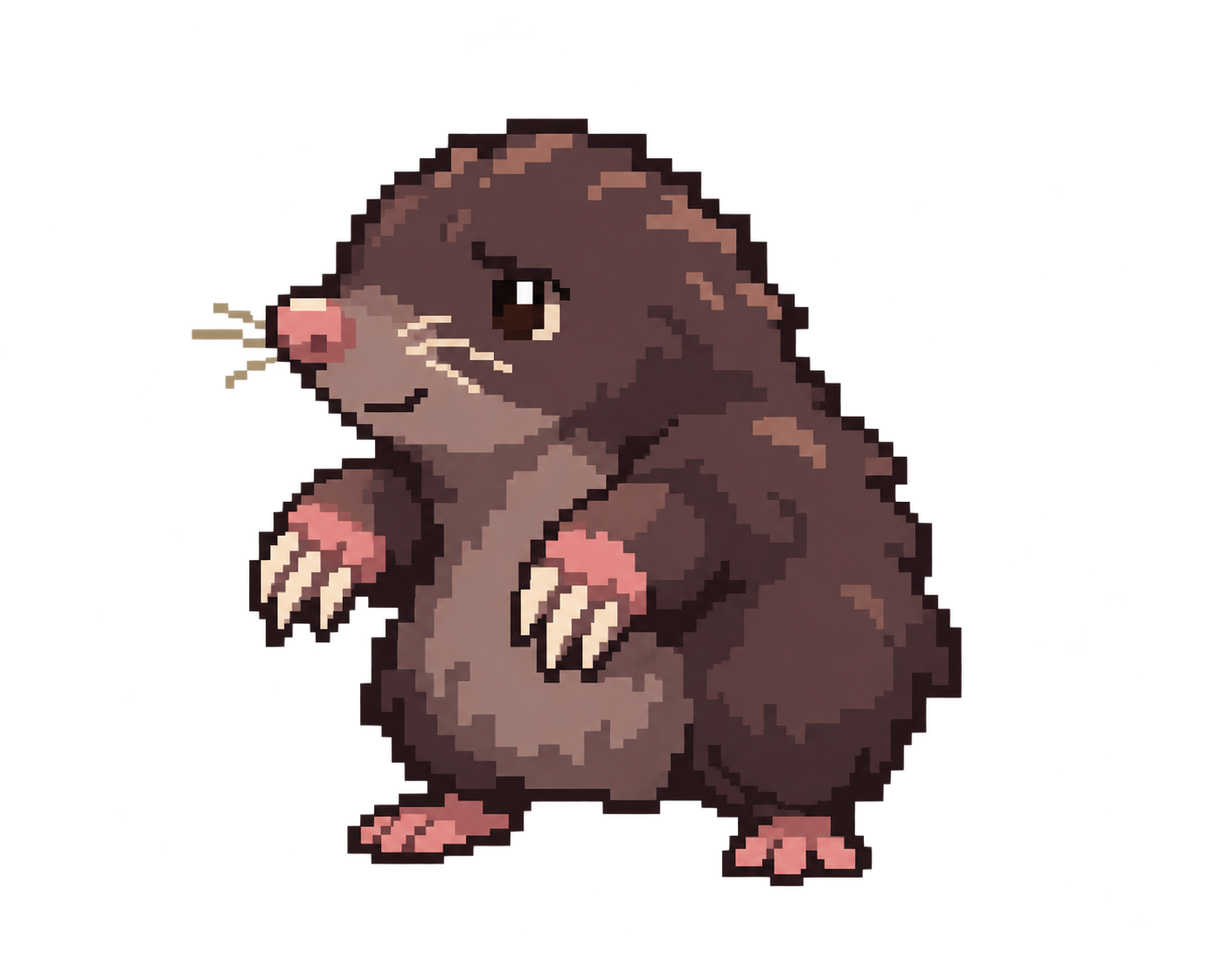
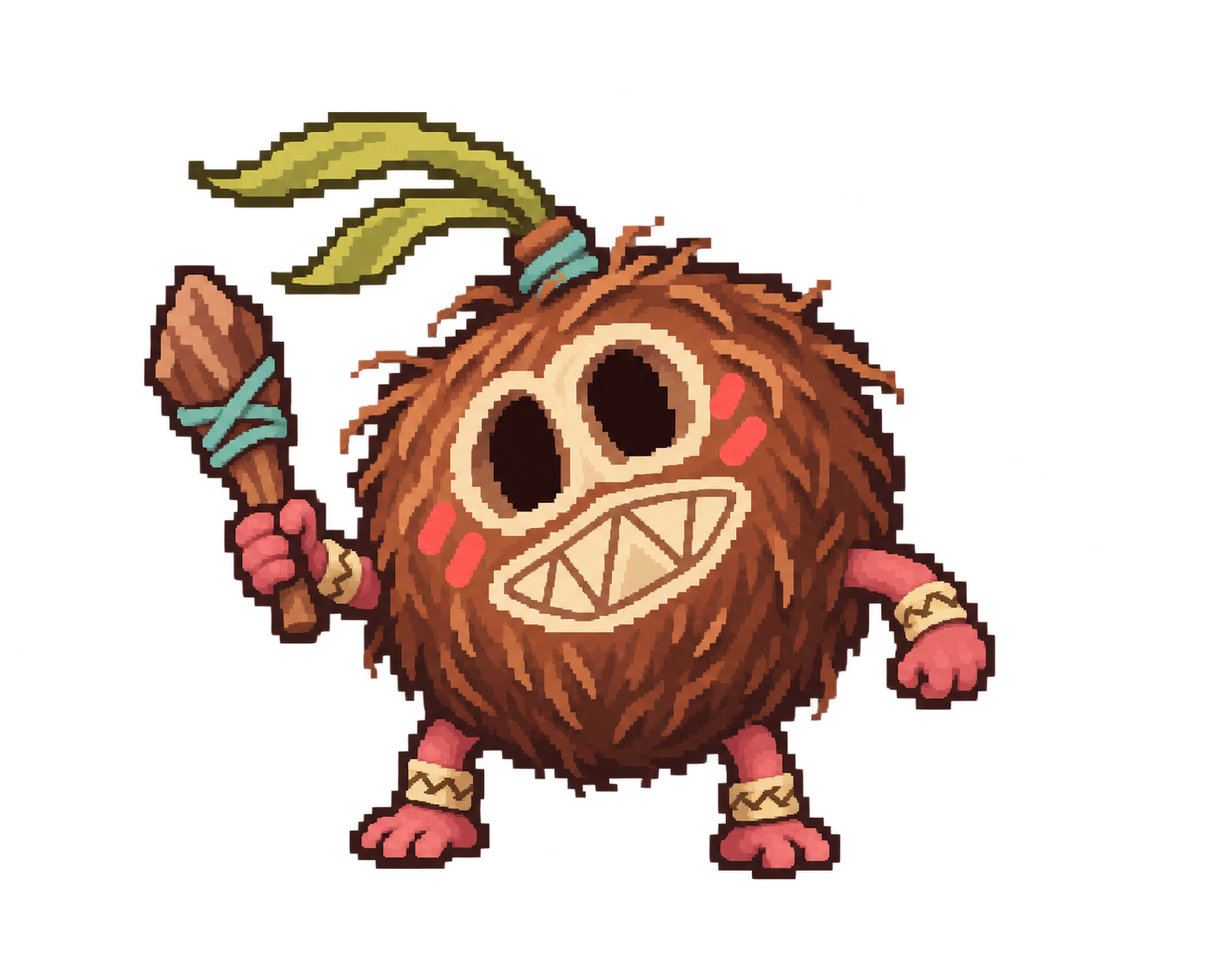
feat: 해적 전투 캐릭터와 밤 배경 적용

diff --git a/script/road.js b/script/road.js
@@ -330,10 +330,10 @@ function drawMap(dt=0){
         sheet.dataset.status=status;action.hidden=!at||puzzleOpen||celebrating;action.disabled=action.hidden;action.dataset.encounter=at?.id??'';
         sheet.querySelectorAll('.road-explore-move').forEach(b=>{b.disabled=puzzleOpen||celebrating;});
         if(at&&!puzzleOpen){
-            const label=at.id==='battle'?'늑대와 마주하기 [E]':at.id==='tutorial'?'두더지와 전투 연습 [E]':'장애물 돌파 [E]';
+            const label=at.id==='battle'?'해적과 마주하기 [E]':at.id==='tutorial'?'코코넛 해적과 전투 연습 [E]':'장애물 돌파 [E]';
             action.textContent=label;
         }
-        sheet.querySelector('.road-explore-description').textContent=puzzleOpen?'오른쪽 퍼즐 패널에서 장애물을 돌파하는 중입니다. 지도 이동은 잠시 멈춥니다.':celebrating?'돌이 사라지고 잉크 길이 이어졌습니다.':at?'! 여기 장애물이 있다 ! '+at.label+'. A/D 또는 좌우 방향키로 이동 (막힘). E로 '+(at.id==='battle'?'늑대와 마주하기.':at.id==='tutorial'?'두더지와 전투 연습.':'장애물 돌파.'):'A/D 또는 좌우 방향키로 직접 그린 잉크 길을 탐험하세요.';
+        sheet.querySelector('.road-explore-description').textContent=puzzleOpen?'오른쪽 퍼즐 패널에서 장애물을 돌파하는 중입니다. 지도 이동은 잠시 멈춥니다.':celebrating?'돌이 사라지고 잉크 길이 이어졌습니다.':at?'! 여기 장애물이 있다 ! '+at.label+'. A/D 또는 좌우 방향키로 이동 (막힘). E로 '+(at.id==='battle'?'해적과 마주하기.':at.id==='tutorial'?'코코넛 해적과 전투 연습.':'장애물 돌파.'):'A/D 또는 좌우 방향키로 직접 그린 잉크 길을 탐험하세요.';
     }
 }
 function openPuzzle(nodeId){
@@ -519,7 +519,7 @@ function render(){
     else if(state.stage==='contract')intro('contract');
     else if(state.stage==='stopped'){setHeader('여정이 종료되었습니다','');renderCard('','당신은 동의하지 않았습니다.','이곳에서 여정이 멈췄습니다.',[['처음부터 다시 시작',()=>{resetJourneyState();save();render();}]]);}
     else if(state.stage==='topic')renderTopic();else if(state.stage==='fork')renderFork();else if(state.stage==='summary')renderMap(true);else if(state.stage==='map')renderMap();else if(isPuzzleOpen(state))renderPuzzle({nodeId:puzzleNodeId(state.stage)});
-    else if(state.stage==='battleReady'){setHeader('길 위의 낯선 그림자','');renderCard('늑대와 마주침','탈출하는 길에서 늑대와 마주쳤다.','티니가 당신 곁에 멈춰 섭니다.',[['늑대와 마주하기',()=>$('#show-battle').click()],['지도로 돌아가기',()=>changeStage('map')]]);}
+    else if(state.stage==='battleReady'){setHeader('길 위의 낯선 그림자','');renderCard('해적과 마주침','탈출하는 길에서 해적과 마주쳤다.','티니가 당신 곁에 멈춰 섭니다.',[['해적과 마주하기',()=>$('#show-battle').click()],['지도로 돌아가기',()=>changeStage('map')]]);}
     if(forestPopup&&root.classList.contains('screen-active')){
         closeHelp(false);
         if(!flowDialog.open)flowDialog.showModal();
@@ -599,7 +599,9 @@ function frame(time){
 }
 export function enterRoad(){root.classList.replace('screen','screen-active');keys.clear();render();if(!flowDialog.open)view.focus({preventScroll:true});}
 export function exitRoad(){closeHelp(false);root.classList.replace('screen-active','screen');keys.clear();if(modal.open)closeModal();if(flowDialog.open)flowDialog.close();save();}
-export function getCurrentRoadBattleBackground(){return state.stage==='forest'?'./images/battle/battle_bg_green.png':'./images/battle/battle_bg_white.png';}
+export function getCurrentRoadBattleBackground(kind=roadBattleKind(state)){
+    return kind==='mole'?'./images/battle/battle_bg_sand_night.png':'./images/battle/battle_bg_deck_night.png';
+}
 export function getRoadBattleKind(){return roadBattleKind(state);}
 // Live access keeps battle on the same wallet even after a journey is restarted.
 export const journeyTokens={get tokens(){return state.tokens;},set tokens(value){state.tokens=value;},get events(){return state.events;}};

diff --git a/script/ending-model.js b/script/ending-model.js
@@ -8,7 +8,7 @@ export function endingRecords({choices=[],battles=[]}={},result){
         return {scene:'갈림길',action:choice.label,recommendation:known?choice.options[choice.recommended]:null,
             accepted:known?choice.selected===choice.recommended:null,tokenUsed,detail:choice.prompt||'',recordedAt:choice.recordedAt??index};
     });
-    const combat=battles.filter(turn=>turn.playerChoice).map(turn=>({scene:'늑대 전투',action:turn.playerChoice,
+    const combat=battles.filter(turn=>turn.playerChoice).map(turn=>({scene:'해적 전투',action:turn.playerChoice,
         recommendation:turn.recommendation||null,accepted:typeof turn.accepted==='boolean'?turn.accepted:null,
         tokenUsed:turn.tokenUsed??null,detail:turn.outcome||'',result:turn.result,recordedAt:turn.recordedAt??Number.MAX_SAFE_INTEGER}));
     const records=[...road,...combat].sort((a,b)=>a.recordedAt-b.recordedAt);
@@ -27,7 +27,7 @@ export function constellationTheme(records){
     return accepted>rejected?'cat':rejected>accepted?'compass':'traveler';
 }
 // Fixed scene order and an open, non-crossing constellation; no action adds nodes.
-export const SCENE_NAMES=Object.freeze(['암호 찾기','갈림길 1','갈림길 2','갈림길 3','갈림길 4','갈림길 5','퍼즐 1','퍼즐 2','늑대 전투']);
+export const SCENE_NAMES=Object.freeze(['암호 찾기','갈림길 1','갈림길 2','갈림길 3','갈림길 4','갈림길 5','퍼즐 1','퍼즐 2','해적 전투']);
 const SCENE_POSITIONS=[[.18,.39],[.27,.28],[.43,.31],[.53,.25],[.72,.30],[.81,.41],[.63,.49],[.49,.41],[.32,.50]];
 export function starPositions(){return SCENE_POSITIONS.map(([x,y])=>({x,y}));}
 export function endingScenes(journey={},result){
@@ -60,7 +60,7 @@ export function endingScenes(journey={},result){
     const actionCounts=new Map();turns.forEach(t=>actionCounts.set(t.playerChoice,(actionCounts.get(t.playerChoice)||0)+1));
     const knownTurns=turns.filter(t=>typeof t.accepted==='boolean'),followedTurns=knownTurns.filter(t=>t.accepted).length;
     if(turns.length||['victory','escape','defeat'].includes(outcome))Object.assign(nodes[8],{hasRecord:true,
-        summary:({victory:'늑대 전투에서 승리했어요.',escape:'늑대 전투에서 도주했어요.',defeat:'늑대 전투에서 패배했어요.'})[outcome]||turns.at(-1)?.outcome||'선택한 전투 행동이 기록되어 있어요.',
+        summary:({victory:'해적 전투에서 승리했어요.',escape:'해적 전투에서 도주했어요.',defeat:'해적 전투에서 패배했어요.'})[outcome]||turns.at(-1)?.outcome||'선택한 전투 행동이 기록되어 있어요.',
         detail:turns.at(-1)?.outcome||null,action:[...actionCounts].map(([action,count])=>`${action} ${count}회`).join(' · '),black:outcome==='escape',tokenUsed:turns.some(t=>t.tokenUsed===true)||null,
         accepted:knownTurns.length===turns.length&&knownTurns.length?(followedTurns===knownTurns.length?true:followedTurns===0?false:null):null});
     return nodes;

diff --git a/script/battle/flow.js b/script/battle/flow.js
@@ -56,7 +56,7 @@ export function createBattleFlow({ state, tokenState, ui, navigation, renderer, 
     let enemyActedBeforePlayer = false;
 
     function getEnemyName() {
-        return state.enemyKind === "mole" ? "두더지" : "늑대";
+        return state.enemyKind === "mole" ? "코코넛 해적" : "해적";
     }
 
     function setEnemyEncounter(kind) {
@@ -66,7 +66,7 @@ export function createBattleFlow({ state, tokenState, ui, navigation, renderer, 
         ui.enemyName.textContent = getEnemyName();
         ui.enemyPortrait.src = kind === "mole"
             ? "./images/battle/mole.png"
-            : "./images/character/wolf_icon.png";
+            : "./images/battle/wolf.png";
         ui.enemyPortrait.alt = `${getEnemyName()} 아이콘`;
         renderer.setBattleEnemy(kind);
     }
@@ -555,14 +555,15 @@ export function createBattleFlow({ state, tokenState, ui, navigation, renderer, 
 
     async function enterBattle(encounterKind) {
         refreshTokens();
-        await renderer.setBattleBackground(navigation.getCurrentRoadBattleBackground());
+        const battleKind = encounterKind ?? (state.started && !state.ended ? state.enemyKind : getBattleEncounterKind());
+        await renderer.setBattleBackground(navigation.getCurrentRoadBattleBackground(battleKind));
         ui.playerStatusName.textContent = "나";
         ui.enterBattleScreen();
         ui.followRecommendationButton.focus();
         if (encounterKind || !state.started || state.ended) {
             scheduler.cancel();
             refreshTokens();
-            setEnemyEncounter(encounterKind ?? getBattleEncounterKind());
+            setEnemyEncounter(battleKind);
             resetBattleState(state);
             ui.updateStatusBars(state);
             beginTutorialIfNeeded();

diff --git a/script/road/content.js b/script/road/content.js
@@ -50,7 +50,7 @@ export const POND = [
 export const CLIMB = [12, 13, 22, 13, 32, 21, 12, 10, 21, 22, 11, 12, 12, 11, 22, 23];
 export const CHECKPOINTS = [
     { at: 1, id: 'pond', label: '연못', message: '연못에서 예상치 못한 장애물을 만났다.' },
-    { at: 2, id: 'tutorial', label: '두더지', message: '두더지와 전투 방법을 연습해 보자.' },
+    { at: 2, id: 'tutorial', label: '코코넛 해적', message: '코코넛 해적과 전투 방법을 연습해 보자.' },
     { at: 3, id: 'climb', label: '암벽', message: '길이 가파른 암벽으로 이어진다.' },
-    { at: 5, id: 'battle', label: '늑대', message: '탈출하는 길에서 늑대와 마주쳤다.' },
+    { at: 5, id: 'battle', label: '해적', message: '탈출하는 길에서 해적과 마주쳤다.' },
 ];

diff --git a/script/battle/ui.js b/script/battle/ui.js
@@ -70,9 +70,9 @@ export function updateBattleActionButtons(state) {
             ? "추천대로 행동"
             : "추천 행동 다시 보기";
     probabilityButton.textContent = !state.probabilityRevealed
-        ? `${state.enemyKind === "mole" ? "두더지" : "늑대"} 행동 확률 · 1토큰`
+        ? `${state.enemyKind === "mole" ? "코코넛 해적" : "해적"} 행동 확률 · 1토큰`
         : state.activeHelpView === "probability"
-            ? `${state.enemyKind === "mole" ? "두더지" : "늑대"} 확률 표시 중`
+            ? `${state.enemyKind === "mole" ? "코코넛 해적" : "해적"} 확률 표시 중`
             : "적 행동 확률 다시 보기";
     setControlsLocked(state, state.controlsLocked);
 }

diff --git a/script/battle/tutorial.js b/script/battle/tutorial.js
@@ -2,7 +2,7 @@ const tutorialSteps = {
     intro: {
         selector: null,
         title: "낯선 적이 나타났어",
-        text: "두더지를 만났네. 전투 방법을 알려줄게.",
+        text: "코코넛 해적을 만났네. 전투 방법을 알려줄게.",
     },
     health: {
         selector: "#player-status .health-bar",
@@ -37,7 +37,7 @@ const tutorialSteps = {
     roarLesson: {
         selector: null,
         title: "포효",
-        text: "두더지가 먼저 포효해 스태미나를 20 줄였어.",
+        text: "코코넛 해적이 먼저 포효해 스태미나를 20 줄였어.",
     },
     choose: {
         selector: "#choose-action-button",

diff --git a/script/battle/controller.js b/script/battle/controller.js
@@ -40,7 +40,7 @@ export function createBattleController({ state, tokenState, flow, ui, tutorial }
             );
         }
         state.activeHelpView = "probability";
-        const enemyName = state.enemyKind === "mole" ? "두더지" : "늑대";
+        const enemyName = state.enemyKind === "mole" ? "코코넛 해적" : "해적";
         ui.showMenuMessage(`${enemyName}의 다음 행동 확률`, "probability");
         ui.showEnemyProbability(state.displayedEnemyActionProbabilities);
         ui.updateBattleActionButtons(state);

diff --git a/index.html b/index.html
@@ -149,7 +149,7 @@
                 </div>
             </details>
             <section class="battle-status enemy-status" id="enemy-status" aria-label="적 상태">
-                <img class="status-portrait" src="./images/character/wolf_icon.png" alt="적 아이콘">
+                <img class="status-portrait" src="./images/battle/wolf.png" alt="적 아이콘">
                 <div class="status-heading">
                     <p class="status-name">적</p>
                 </div>

diff --git a/docs/checklist.md b/docs/checklist.md
@@ -4,49 +4,49 @@
 
 - [x] 두 퍼즐의 오답·중복 클릭은 밝힌 칸이 0~2개면 유지하고 3개 이상이면 마지막 한 칸만 되돌리고, 다시 버튼은 같은 판을 0/16으로 초기화한다.
 
-- [x] 새 여정은 토큰 30개로 시작하고 road·두더지·늑대 전투가 같은 잔액과 사용 기록을 공유한다. 화면에는 남은 토큰만 표시한다.
+- [x] 새 여정은 토큰 30개로 시작하고 road·코코넛 해적·해적 전투가 같은 잔액과 사용 기록을 공유한다. 화면에는 남은 토큰만 표시한다.
 - [x] 배틀 진입·재도전에서는 토큰을 재지급하지 않고 새 여정에서만 초기화한다. 예전 10·20개 시작 저장은 사용량을 보존해 한 번만 이전한다.
 - [x] 양피지 팝업 뒤 배경을 어둡게 하고, 갈림길·지도 뒤 숲에는 별도로 어두운 처리를 적용한다. road 기능 버튼은 각진 픽셀 테두리와 나무색으로 표시한다.
 
 - [x] 별자리에서 추천을 따른 선택과 직접 고른 선택이 색상·픽셀 모양·범례로 구분된다. 추천 여부를 모르는 기록은 중립 표시한다.
 - [x] 진입 시 별이 선 끝과 함께 이동해 순차적으로 정착한 뒤 연결선이 고정되고, 깨끗한 하늘에 드문드문한 도트 별과 반짝이는 긴 꼬리의 다양한 유성이 표시된다. 모션 감소 시 반복 효과를 멈춘다.
-- [x] 누적 토큰 사용량 0~10개는 여러 유성, 11~20개는 적은 유성, 21~30개는 아주 느린 단색 회색 토큰 낙하, 31개 이상은 더 잦은 단색 회색 토큰 낙하로 표시한다. 토큰은 엔딩 진입 시 화면 위에서부터 순차적으로 떨어진다. 모션 감소와 PNG 저장은 정지 화면을 사용한다.
+- [x] 누적 토큰 사용량 0~10개는 여러 유성, 11~19개는 적은 유성, 20~30개(남은 토큰 0~10개)는 별과 연결선만 보이며 낙하 연출이 없다. 토큰 잔액이 마이너스면 단색 회색 토큰이 떨어진다. 모션 감소와 PNG 저장은 정지 화면을 사용한다.
 - [x] 별자리 결과에 따라 고양이·나침반·여행자 워터마크가 달라진다.
 - [x] 굴뚝 연기와 창문 불빛, 티니의 눈·꼬리, 망토·풀잎·나무와 반딧불이가 잔잔하게 움직인다.
 - [x] 연결선 위 이동 펄스와 성운 얼룩이 없고, 별은 제자리에서 미세하게 숨쉬며 사용자 조작 시에만 강하게 강조된다.
 - [x] 별 미리보기와 기록 펼치기가 작동하고, 360px 폭에서 사운드·기록 저장 버튼이 겹치지 않는다.
 
 - [x] 시작·갈림길, 지도·퍼즐, 별자리에 각각 지정된 배경음악이 재생된다.
-- [x] 지도 음악은 두더지 튜토리얼 동안 멈추고 복귀 시 같은 위치에서 이어진다.
+- [x] 지도 음악은 코코넛 해적 튜토리얼 동안 멈추고 복귀 시 같은 위치에서 이어진다.
 - [x] 전체 화면의 스피커 버튼으로 배경음악 음소거·음량을 조절하고 설정을 복원한다.
 - [x] 반복 재생 시 곡의 끝과 시작에서 음량이 점진적으로 줄고 커진다. (자동 테스트)
 
-- [x] 지도 2번에서 두더지 튜토리얼이 열리며, 5번 늑대와 동일한 스타일의 에셋·붉은 느낌표가 보인다.
+- [x] 지도 2번에서 코코넛 해적 튜토리얼이 열리며, 5번 해적과 동일한 스타일의 에셋·붉은 느낌표가 보인다.
 - [ ] 첫 튜토리얼 전투에서 적을 만났다는 인사 후 아무 곳이나 클릭해 안내를 시작한다.
 - [ ] 상태창 → 적 행동 확률 → 티니 추천 조회 → 추천대로 행동 → 직접 행동 → 자동전투 1턴 → 멈춤 버튼 안내와 클릭 → 토큰 안내 순으로 체험한다.
 - [ ] 여정은 30토큰으로 시작하고 배틀은 road에서 남은 토큰을 이어받는다. 확률 조회는 1토큰, 추천 조회는 기본 2토큰이며 같은 턴에 확률을 먼저 확인하면 1토큰, 자동전투는 턴마다 2토큰을 사용한다.
-- [ ] 두더지를 이기면 같은 지도 위치로 복귀하고 5번 늑대 전투로 이동할 수 있다. 지도에서는 튜토리얼의 입력 제한이 해제된다.
-- [ ] 튜토리얼을 끝까지 본 상태는 새로고침 후에도 유지되고 새 여정에서는 초기화된다. 끝까지 본 뒤 두더지와 다시 싸워도 안내를 반복하지 않으며, 도망은 지도 진행 완료로 처리하지 않는다.
+- [ ] 코코넛 해적을 이기면 같은 지도 위치로 복귀하고 5번 해적 전투로 이동할 수 있다. 지도에서는 튜토리얼의 입력 제한이 해제된다.
+- [ ] 튜토리얼을 끝까지 본 상태는 새로고침 후에도 유지되고 새 여정에서는 초기화된다. 끝까지 본 뒤 코코넛 해적과 다시 싸워도 안내를 반복하지 않으며, 도망은 지도 진행 완료로 처리하지 않는다.
 - [ ] 1단계: 링크를 열면 게임 소개와 시작 동작이 있는 시작 화면이 보인다.
 - [ ] 1단계: 계정 생성 없이 게임을 시작할 수 있다.
 - [ ] 2단계: 고양이, 갈림길 질문, 선택 가능한 길이 보이고 선택하면 다음 장면으로 진행된다.
 - [ ] 2단계: 고양이 아이콘과 퍼져 있는 고양이 아이콘이 표시된다.
-- [ ] 3단계: 매 턴 시작에는 “어떤 행동을 할까?”가 표시되고, 추천은 기본 2토큰이며 같은 턴에 늑대 확률을 먼저 확인하면 1토큰을 소모해 최다 확률 행동에 따른 대응을 확인할 수 있다.
-- [ ] 3단계: 늑대의 다음 행동 확률은 턴당 한 번 1토큰으로 확인할 수 있고, 재확인 시 중복 차감되지 않는다.
-- [ ] 3단계: 토큰이 양수일 때 늑대의 공격·회복·방어·포효 확률이 표시되고, 실제 행동이 표시한 분포와 일치한다.
-- [ ] 3단계: 추천은 늑대의 최다 확률 행동에 맞춰 대응하고, 동률이면 대표 행동 하나만 고른다. 추천 행동의 스태미나가 부족하면 지정된 숨 고르기 문구가 나온다.
-- [ ] 3단계: 플레이어 방어는 스태미나 10을 소모하고 해당 턴 늑대 공격 피해를 절반으로 줄인다.
+- [ ] 3단계: 매 턴 시작에는 “어떤 행동을 할까?”가 표시되고, 추천은 기본 2토큰이며 같은 턴에 해적 확률을 먼저 확인하면 1토큰을 소모해 최다 확률 행동에 따른 대응을 확인할 수 있다.
+- [ ] 3단계: 해적의 다음 행동 확률은 턴당 한 번 1토큰으로 확인할 수 있고, 재확인 시 중복 차감되지 않는다.
+- [ ] 3단계: 토큰이 양수일 때 해적의 공격·회복·방어·포효 확률이 표시되고, 실제 행동이 표시한 분포와 일치한다.
+- [ ] 3단계: 추천은 해적의 최다 확률 행동에 맞춰 대응하고, 동률이면 대표 행동 하나만 고른다. 추천 행동의 스태미나가 부족하면 지정된 숨 고르기 문구가 나온다.
+- [ ] 3단계: 플레이어 방어는 스태미나 10을 소모하고 해당 턴 해적 공격 피해를 절반으로 줄인다.
 - [ ] 3단계: 모든 공격이 명중하며, 방어 중이면 공격 피해만 절반으로 줄어든다.
-- [ ] 3단계: 전투 기록 결과에는 늑대 행동과 플레이어·늑대가 각각 입힌 피해만 표시된다.
-- [ ] 3단계: 늑대 스태미나가 공격 비용보다 낮으면 회복이 확정되고, 최대치 미만이면 회복 30%와 나머지 세 행동 균등 확률, 최대치면 공격·방어·포효 균등 확률이 적용된다.
-- [ ] 3단계: 방어는 스태미나 10을 소모해 다음 플레이어 공격의 피해를 절반으로 줄이고, 포효는 늑대 스태미나 10과 플레이어 스태미나 20을 소모한다.
+- [ ] 3단계: 전투 기록 결과에는 해적 행동과 플레이어·해적이 각각 입힌 피해만 표시된다.
+- [ ] 3단계: 해적 스태미나가 공격 비용보다 낮으면 회복이 확정되고, 최대치 미만이면 회복 30%와 나머지 세 행동 균등 확률, 최대치면 공격·방어·포효 균등 확률이 적용된다.
+- [ ] 3단계: 방어는 스태미나 10을 소모해 다음 플레이어 공격의 피해를 절반으로 줄이고, 포효는 해적 스태미나 10과 플레이어 스태미나 20을 소모한다.
 - [ ] 3단계: 포효 후 플레이어 스태미나가 선택한 공격 비용보다 낮으면 기존처럼 해당 공격이 실패하고 턴이 진행된다.
 - [ ] 3단계: 자동전투는 켜고 끌 수 있으며, 진행 중 수동 행동은 막히고 턴마다 2토큰을 소모한다. 토큰이 0 이하가 되면 사용 가능한 행동 중 하나를 무작위로 고른다. 튜토리얼은 자동전투를 한 턴 뒤 멈추고, 멈춤 버튼을 다시 누르게 안내한다.
-- [ ] 3단계: 늑대 기본 공격 피해는 20, 치명타 피해는 35다.
+- [ ] 3단계: 해적 기본 공격 피해는 20, 치명타 피해는 35다.
 - [ ] 3단계: 토큰이 0 이하일 때 추천 설명이 실제 상태와 어긋나거나 실행 불가능한 행동을 권할 수 있고, 부채가 커질수록 그 정도가 심해진다.
-- [ ] 3단계: 토큰이 0 이하일 때 화면의 늑대 행동 확률은 실제와 달라지며, 부채가 커질수록 왜곡이 커진다. 늑대의 실제 행동 계산은 그대로 유지된다.
-- [ ] 3단계: 늑대 패배 패널에는 “졌다...”와 “회귀하기”, “포기하기”가 보이고, 두더지 패배 패널에는 “회귀하기”만 보인다. 회귀하기는 전투를 재시작하고, 늑대 포기하기는 도주 성공과 같은 흐름으로 끝난다.
-- [ ] 3단계: 늑대 스태미나가 충분할 때 플레이어 체력이 낮아질수록 늑대 공격 확률이 증가하고, 나머지 행동 확률이 그만큼 감소한다.
+- [ ] 3단계: 토큰이 0 이하일 때 화면의 해적 행동 확률은 실제와 달라지며, 부채가 커질수록 왜곡이 커진다. 해적의 실제 행동 계산은 그대로 유지된다.
+- [ ] 3단계: 해적 패배 패널에는 “졌다...”와 “회귀하기”, “포기하기”가 보이고, 코코넛 해적 패배 패널에는 “회귀하기”만 보인다. 회귀하기는 전투를 재시작하고, 해적 포기하기는 도주 성공과 같은 흐름으로 끝난다.
+- [ ] 3단계: 해적 스태미나가 충분할 때 플레이어 체력이 낮아질수록 해적 공격 확률이 증가하고, 나머지 행동 확률이 그만큼 감소한다.
 - [ ] 3단계: 공격·도망·아이템 사용을 선택할 수 있고 체력·피해 변화와 전투 결과가 반영된다.
 - [ ] 4단계: 지금까지의 선택 결과가 숲의 분위기에 시각적으로 나타난다.
 - [ ] 5단계: 마지막 화면에서 이번 여정의 선택 경로가 별자리 형태로 보인다.

diff --git a/docs/road-board-implementation.md b/docs/road-board-implementation.md
@@ -4,13 +4,13 @@
 
 ## 진행
 
-숲 탐색 → 4개 쪽지와 3142 암호 → 계약 → 주제 선택 → 갈림길 5회 → 완성 지도 → 지도 위 이동 → 연못 → 같은 지도 복귀 → 암벽 → 같은 지도 복귀 → 2번 두더지 튜토리얼 → 같은 지도 복귀 → 5번 늑대 전투.
+숲 탐색 → 4개 쪽지와 3142 암호 → 계약 → 주제 선택 → 갈림길 5회 → 완성 지도 → 지도 위 이동 → 연못 → 같은 지도 복귀 → 암벽 → 같은 지도 복귀 → 2번 코코넛 해적 튜토리얼 → 같은 지도 복귀 → 5번 해적 전투.
 
-경로 생성 이후에는 숲으로 돌아가지 않는다. 선택한 다섯 경로가 실제 이동 지도를 구성한다. 지도 1번째 지점에 연못, 3번째 지점에 암벽, 4번째 지점에 두더지 튜토리얼, 5번째 지점에 늑대를 배치했다. 완료하지 않은 장애물을 넘어갈 수 없으며, 퍼즐과 튜토리얼 완료는 현재 위치를 유지하고 다음 구간을 개방한다.
+경로 생성 이후에는 숲으로 돌아가지 않는다. 선택한 다섯 경로가 실제 이동 지도를 구성한다. 지도 1번째 지점에 연못, 3번째 지점에 암벽, 4번째 지점에 코코넛 해적 튜토리얼, 5번째 지점에 해적을 배치했다. 완료하지 않은 장애물을 넘어갈 수 없으며, 퍼즐과 튜토리얼 완료는 현재 위치를 유지하고 다음 구간을 개방한다.
 
 ## 규칙과 조작
 
-- 배경음악: 시작 화면·숲·갈림길 선택·완성 지도 보기까지 `Whispers of the Deepwood (Remastered)`, 지도 이동·두 퍼즐은 `Mysterious Forest Level`, 늑대 전투 결과 후 별자리는 `Constellation Watch`를 사용한다. 두더지·늑대 전투는 기존 전투 음악을 유지한다. 지도 음악은 튜토리얼 진입 시 일시정지하고 복귀 시 같은 재생 위치에서 이어진다. 같은 구간의 화면 갱신이나 퍼즐 열기/닫기로 음악을 재시작하지 않는다.
+- 배경음악: 시작 화면·숲·갈림길 선택·완성 지도 보기까지 `Whispers of the Deepwood (Remastered)`, 지도 이동·두 퍼즐은 `Mysterious Forest Level`, 해적 전투 결과 후 별자리는 `Constellation Watch`를 사용한다. 코코넛 해적·해적 전투는 기존 전투 음악을 유지한다. 지도 음악은 튜토리얼 진입 시 일시정지하고 복귀 시 같은 재생 위치에서 이어진다. 같은 구간의 화면 갱신이나 퍼즐 열기/닫기로 음악을 재시작하지 않는다.
 - 왼쪽 아래 픽셀 스피커 버튼에서 배경음악 음소거와 0~100% 음량을 조절한다. 전투 음악에도 동일한 설정을 적용하고 효과음은 유지한다. 설정은 로컬 저장소에 보관하며 팝업·튜토리얼 중에도 조작할 수 있다. 새 여정은 곡의 재생 위치를 초기화하되 음량 설정은 유지한다.
 - 곡은 마지막 2초에 페이드 아웃하고 처음 1.5초에 페이드 인하며 반복한다. 브라우저가 자동 재생을 제한하면 첫 클릭이나 키 입력에서 다시 재생을 시도한다.
 
@@ -24,8 +24,8 @@
 - `completedPaths`에는 실제 걸어온 잉크의 월드 좌표를 저장한다. 카메라와 전환 상태도 저장해 전환 중 새로고침을 이어간다. 이 데이터가 없는 이전 저장은 선택 기록으로 기본 경로를 복원한다.
 - 최종 요약은 같은 양피지 위에 침엽수·탐험 점선·물결·산맥·나침반을 세피아 워터마크로 표시한다. 실제 궤적은 화면 픽셀 단위의 굵기 변화와 번짐으로 재렌더링하고, 선택한 성곽·범선·항구·야영지 아이콘을 확대한다. 다섯 번호와 선택 라벨은 점선 아래 두 줄 이내로 정렬하며, 05 지점에 기존 플레이어·티니 에셋을 함께 표시한다. 압정 종이 출발 버튼은 키보드로도 작동하며 선택과 잉크 데이터를 보존한 채 지도 스테이지로 진행한다.
 - 탐험 지도: A/D 또는 좌우 방향키로 저장된 실제 잉크 궤적을 따라 걷는다. 2~3개 구간이 보이는 확대 지도에서 카메라가 부드럽게 추적한다. 번호·선택 라벨·진행도 스탬프는 탐험 화면에서 표시하지 않는다. 지나온 거리의 최댓값을 저장해 뒤로 돌아가도 밝혀진 길을 유지하고, 앞쪽은 세피아 스케치에서 잉크로 드러난다.
-- 미해결 1·3번에는 잉크가 끊긴 점선 슬롯·돌무더기·노란 느낌표를 표시한다. 2번 두더지와 5번 늑대에는 동일한 크기·명암의 기존 몬스터 에셋과 붉은 느낌표를 사용한다. 해당 노드 76 월드 픽셀 앞에서 자동 정지하고 4번은 그대로 통과한다. 정지 시 위험 빗금 배너와 하단 액션 버튼을 표시하며, E 또는 버튼으로 퍼즐이나 전투에 진입한다. 퍼즐 완료 후 현재 위치와 카메라를 유지하고 해당 구간의 잉크를 연결한다.
-- 2번에서는 항상 두더지 튜토리얼 전투를 시작한다. 승리하면 같은 지도의 같은 위치로 복귀하고 `completed`에 `tutorial`을 저장해 3번 퍼즐을 개방한다. 도망은 완료로 처리하지 않는다. 완료 후 새로고침해도 유지되며 새 여정에서는 다시 진행한다. 5번은 페이지의 임시 튜토리얼 플래그와 관계없이 늑대 전투를 시작한다. 지도 복귀 시 튜토리얼 안내·입력 제한을 해제한다.
+- 미해결 1·3번에는 잉크가 끊긴 점선 슬롯·돌무더기·노란 느낌표를 표시한다. 2번 코코넛 해적과 5번 해적에는 동일한 크기·명암의 몬스터 에셋과 붉은 느낌표를 사용한다. 해당 노드 76 월드 픽셀 앞에서 자동 정지하고 4번은 그대로 통과한다. 정지 시 위험 빗금 배너와 하단 액션 버튼을 표시하며, E 또는 버튼으로 퍼즐이나 전투에 진입한다. 퍼즐 완료 후 현재 위치와 카메라를 유지하고 해당 구간의 잉크를 연결한다.
+- 2번에서는 항상 코코넛 해적 튜토리얼 전투를 시작한다. 승리하면 같은 지도의 같은 위치로 복귀하고 `completed`에 `tutorial`을 저장해 3번 퍼즐을 개방한다. 도망은 완료로 처리하지 않는다. 완료 후 새로고침해도 유지되며 새 여정에서는 다시 진행한다. 5번은 페이지의 임시 튜토리얼 플래그와 관계없이 해적 전투를 시작한다. 지도 복귀 시 튜토리얼 안내·입력 제한을 해제한다.
 - 탐험 UI는 픽셀 Canvas이며 숲·물결·산맥 워터마크, 움직임에 반응하는 나침반, 도트 발자국과 티니 경계 동작을 포함한다. 좁은 화면에서는 Canvas 논리 폭을 조정하고 터치 환경에 좌우 이동 버튼을 제공한다.
 - 1·3번의 `구간 갈아끼우기 [E]`는 각각 4×4 연못·암벽 퍼즐을 연다. 열 때마다 무작위 DFS로 시작 칸 0부터 모든 16칸을 한 번씩 방문하는 경로를 만들고, 다음 칸의 위치에서 힌트를 역산한다. 연못은 직선 1~3칸 점프만 사용하고 마지막 칸을 15로 고정한다. 암벽은 서로 다른 어떤 칸으로든 이동할 수 있으며 가로·세로 거리로 두 자리 숫자를 만든다. 마지막 칸의 숫자도 유효한 이동 거리로 채운다. 판과 정답 경로는 `puzzleBoards`에 저장하며 표시·클릭·도움말이 같은 판을 사용한다. 기존 `POND`/`CLIMB` 배열은 이전 저장의 진행 중인 고정 판을 복원하는 용도로만 남긴다.
 - 퍼즐 진행 중에는 경고 배너와 진입 버튼을 숨기고 카메라·플레이어·티니의 기준 위치를 고정한다. ‘다시’는 같은 판의 진행만 0/16으로 되돌리고, 오답은 마지막으로 밝힌 한 칸만 취소한다. X/ESC로 닫으면 원래 막힘 상태를 복구하며, 다시 열면 새 무작위 판과 0/16 진행으로 시작한다. 열린 채 새로고침하면 판·카메라·진행을 그대로 복원한다. `onPuzzleSuccess(nodeId)`는 중복 없는 16칸의 실제 이동 경로가 유효할 때만 노드를 해제한다. 패널을 닫고 돌·느낌표를 제거하며 잉크를 연결한 뒤, 먼지 효과와 티니의 0.5초 점프를 재생하고 이동을 재개한다.
@@ -99,6 +99,8 @@
 
 연속 지도 전환 검증: 28개 규칙 테스트 통과. 서로 다른 높이의 다섯 경로 연결, 0.8/1.0/0.6초 전환 순서, 입력 잠금, 중복 확정 방지, 전환 저장 복원, 전체 지도 카메라 범위를 확인했다. 브라우저에서 다섯 단계 완주, 패닝 중 새로고침, 최종 전체 지도 표시를 확인했다.
 
+
+최근 변경 (2026-11-27): 두더지·늑대 전투 스프라이트를 코코넛 하나에 팔다리만 붙은 해적과 전신 해적으로 교체하고, 지도·전투·엔딩의 표시 이름을 코코넛 해적·해적으로 맞췄다. 튜토리얼과 실전 전투 모두 밤 배경을 사용하며, 모래사장과 해적 갑판 배경은 기존 변형 배경과 같은 1748×899 크기다.
 
 최근 변경 (2026-11-24): 두 퍼즐의 오답·중복 클릭은 마지막 한 칸만 되돌린다. 도움 문구도 이 규칙에 맞췄다. 새 여정은 공용 토큰 30개이며 이전 저장은 사용량을 보존한다. 두더지는 지도 2번으로 이동해 완료 후 3번 퍼즐로 이어지고 4번은 통과한다. 구버전에서 3번 퍼즐을 열어 두었지만 튜토리얼을 완료하지 않은 저장은 2번 조우 지도로 복귀한다. 아래의 과거 검증·수정 기록은 당시 동작을 기술한다.
 

diff --git a/docs/requirements.md b/docs/requirements.md
@@ -32,14 +32,15 @@ AI 고양이와 함께 숲속의 갈림길을 지나고, 마주치는 적과 턴
 - 플레이어·적 체력과 피해량 변화, 승리·도주·패배 결과 처리
 - 매 턴 행동 질문과 선택 가능한 행동 표시, 기본 2토큰(해당 턴에 적 행동 확률을 먼저 확인하면 1토큰)을 사용하는 추천 행동 확인 및 사용자의 직접 선택. 추천은 적의 최다 확률 행동을 고려한다.
 - 토큰을 사용한 적 다음 행동 확률 확인과 턴당 2토큰을 사용하는 자동전투
-- 지도 2번에서 시작하는 두더지 튜토리얼 배틀. 5번 늑대와 동일한 스타일의 몬스터 에셋과 느낌표로 표시한다. 시작 인사 후 상태창, 적 행동 확률, 티니 추천 조회와 추천 실행, 직접 행동, 자동전투 1턴 체험과 중지 버튼 확인, 토큰 순서로 조작 안내를 제공한다. 두더지를 이기면 완료 상태를 여정에 저장하고 같은 지도 위치로 복귀해 3번 퍼즐을 거쳐 5번 늑대에게 이동한다. 새 여정에서는 튜토리얼을 다시 진행한다.
+- 지도 2번에서 시작하는 코코넛 해적 튜토리얼 배틀. 5번 해적과 같은 스타일의 몬스터 에셋과 느낌표로 표시한다. 시작 인사 후 상태창, 적 행동 확률, 티니 추천 조회와 추천 실행, 직접 행동, 자동전투 1턴 체험과 중지 버튼 확인, 토큰 순서로 조작 안내를 제공한다. 코코넛 해적을 이기면 완료 상태를 여정에 저장하고 같은 지도 위치로 복귀해 3번 퍼즐을 거쳐 5번 해적에게 이동한다. 새 여정에서는 튜토리얼을 다시 진행한다.
+- 튜토리얼 전투는 밤의 모래사장, 실전 해적 전투는 밤의 해적 갑판을 배경으로 사용한다.
 - 자동전투는 적 행동 확률을 바탕으로 티니가 추천 행동을 실행하며 턴마다 2토큰을 사용한다.
-- 토큰이 0 이하일 때 상황과 어긋나는 추천과 늑대 행동 확률을 보여주는 티니. 부채가 커질수록 오추천과 확률 왜곡이 심해지며 실제 전투 규칙은 바뀌지 않는다.
-- 늑대 행동은 공격·회복·방어·포효 네 가지다. 공격에 필요한 스태미나가 부족하면 회복이 확정된다. 공격 가능한 스태미나가 최대치보다 낮으면 회복 30%, 나머지는 세 행동에 균등 배분하고, 최대치면 공격·방어·포효를 균등 선택한다. 플레이어 체력이 낮아질수록 비공격 행동의 확률 일부를 공격으로 옮긴다.
+- 토큰이 0 이하일 때 상황과 어긋나는 추천과 해적 행동 확률을 보여주는 티니. 부채가 커질수록 오추천과 확률 왜곡이 심해지며 실제 전투 규칙은 바뀌지 않는다.
+- 해적 행동은 공격·회복·방어·포효 네 가지다. 공격에 필요한 스태미나가 부족하면 회복이 확정된다. 공격 가능한 스태미나가 최대치보다 낮으면 회복 30%, 나머지는 세 행동에 균등 배분하고, 최대치면 공격·방어·포효를 균등 선택한다. 플레이어 체력이 낮아질수록 비공격 행동의 확률 일부를 공격으로 옮긴다.
 - 공격은 회피 판정 없이 명중한다. 힘껏 휘두르기도 항상 명중한다.
-- 늑대 기본 공격 피해는 20, 치명타 피해는 35다. 늑대 방어는 스태미나 10을 소모해 다음 플레이어 공격 피해를 50% 줄인다. 포효는 늑대 스태미나 10과 플레이어 스태미나 20을 소모해 다음 플레이어 행동 전에 영향을 준다.
-- 플레이어는 스태미나 10을 소모해 방어할 수 있고, 해당 턴 늑대의 다음 공격 피해가 절반으로 줄어든다.
-- 티니의 2토큰 추천은 늑대 최다 확률 행동에 대응한다. 회복이면 스태미나에 따라 강한 공격·일반 공격, 방어면 체력이 가득 찼을 때 스태미나에 맞는 공격(아니면 숨 고르기), 공격이면 방어, 포효면 포효 후 스태미나에 맞는 공격 또는 숨 고르기를 추천한다. 대응 행동의 스태미나가 부족하면 “지금 스태미나가 부족하니까 숨을 고르자!”라고 안내한다. 동률은 공격·회복·방어·포효 순으로 하나를 고른다.
+- 해적 기본 공격 피해는 20, 치명타 피해는 35다. 해적 방어는 스태미나 10을 소모해 다음 플레이어 공격 피해를 50% 줄인다. 포효는 해적 스태미나 10과 플레이어 스태미나 20을 소모해 다음 플레이어 행동 전에 영향을 준다.
+- 플레이어는 스태미나 10을 소모해 방어할 수 있고, 해당 턴 해적의 다음 공격 피해가 절반으로 줄어든다.
+- 티니의 2토큰 추천은 해적의 최다 확률 행동에 대응한다. 회복이면 스태미나에 따라 강한 공격·일반 공격, 방어면 체력이 가득 찼을 때 스태미나에 맞는 공격(아니면 숨 고르기), 공격이면 방어, 포효면 포효 후 스태미나에 맞는 공격 또는 숨 고르기를 추천한다. 대응 행동의 스태미나가 부족하면 “지금 스태미나가 부족하니까 숨을 고르자!”라고 안내한다. 동률은 공격·회복·방어·포효 순으로 하나를 고른다.
 - 갈림길과 전투에서 실제로 한 선택의 세션 기록
 - 선택에 반응하는 숲의 시각적 분위기
 - 마지막에 선택 경로를 별자리 형태로 확인하고 회고하는 화면

diff --git a/docs/constellation-ending.md b/docs/constellation-ending.md
@@ -2,7 +2,7 @@
 
 ## 실제 데이터 연결
 
-노드는 항상 `암호 찾기 → 갈림길 1~5 → 퍼즐 1 → 퍼즐 2 → 늑대 전투` 순서의 9개다. 개별 행동 수가 늘어나도 노드 수는 변하지 않는다. 기록이 없는 노드는 흐린 별이며 선택하면 `아직 이 장면의 기록이 없어요`를 표시한다.
+노드는 항상 `암호 찾기 → 갈림길 1~5 → 퍼즐 1 → 퍼즐 2 → 해적 전투` 순서의 9개다. 개별 행동 수가 늘어나도 노드 수는 변하지 않는다. 기록이 없는 노드는 흐린 별이며 선택하면 `아직 이 장면의 기록이 없어요`를 표시한다.
 
 - 암호: `events`의 `password-solved`로 완료를 확인한다. 없으면 `notes`와 `note` 이벤트의 중복 없는 단서 수를 사용한다. 게임 단계만으로 완료를 추정하지 않는다.
 - 갈림길: `choices[].scene`의 `fork-1`~`fork-5`로 묶는다. `options`, `selected`, `recommended`가 비교 가능한 기록만 분모에 넣고 같은 선택인 경우만 분자에 넣는다. 예전 `scene` 없는 기록은 배열 순번으로 연결한다. 기존 게임은 보통 갈림길당 1회 선택을 저장하므로 `1 / 1`, `0 / 1`이 정상이며 2 / 3 같은 값을 임의 생성하지 않는다.
